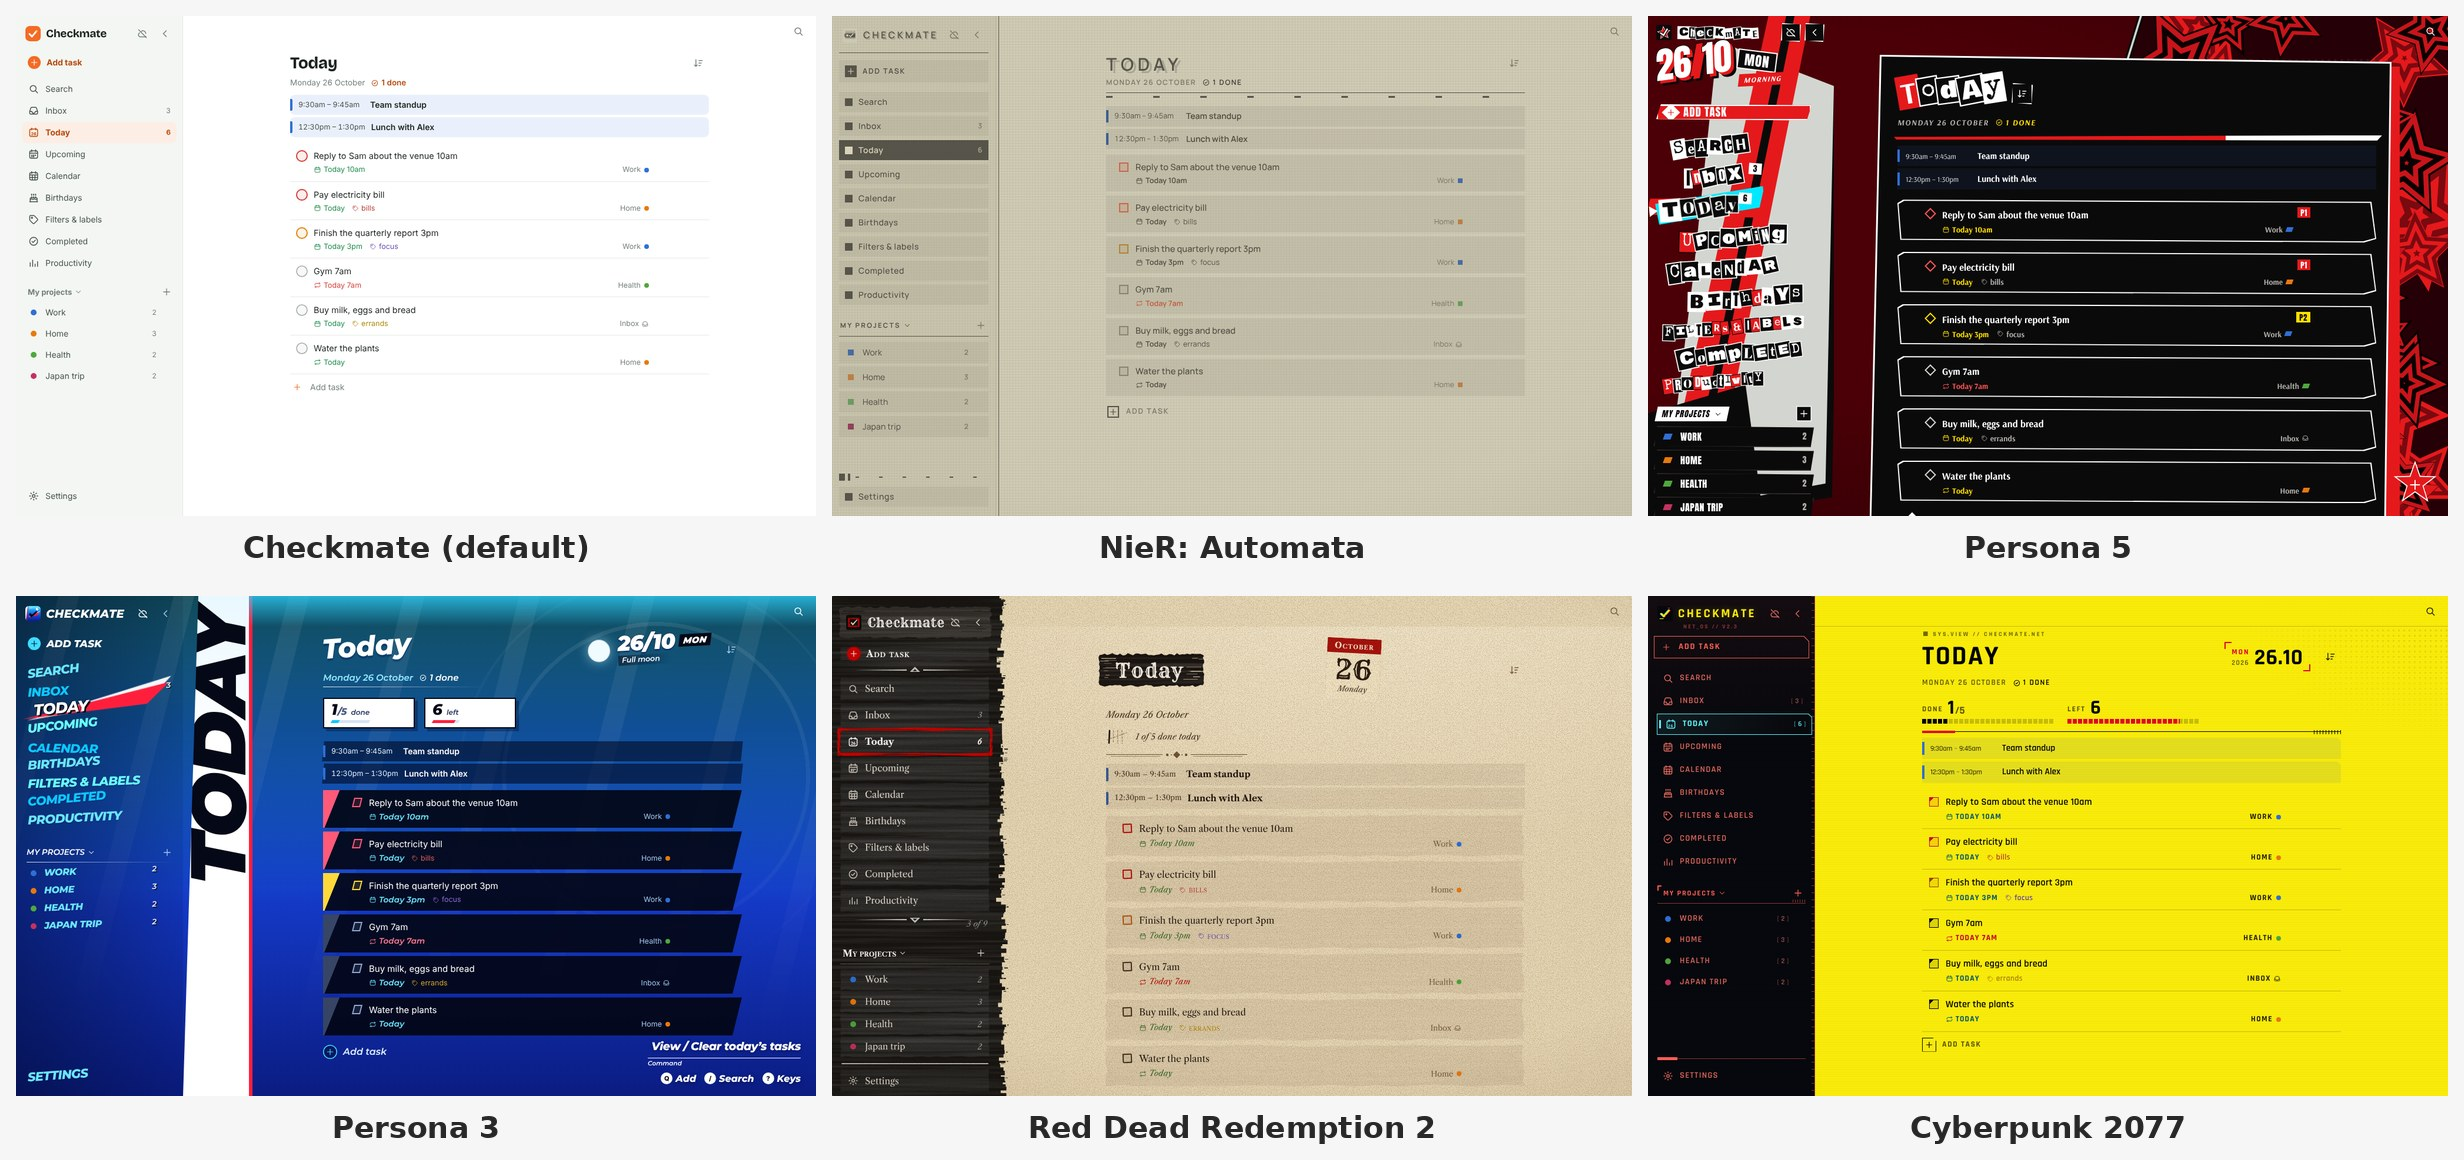
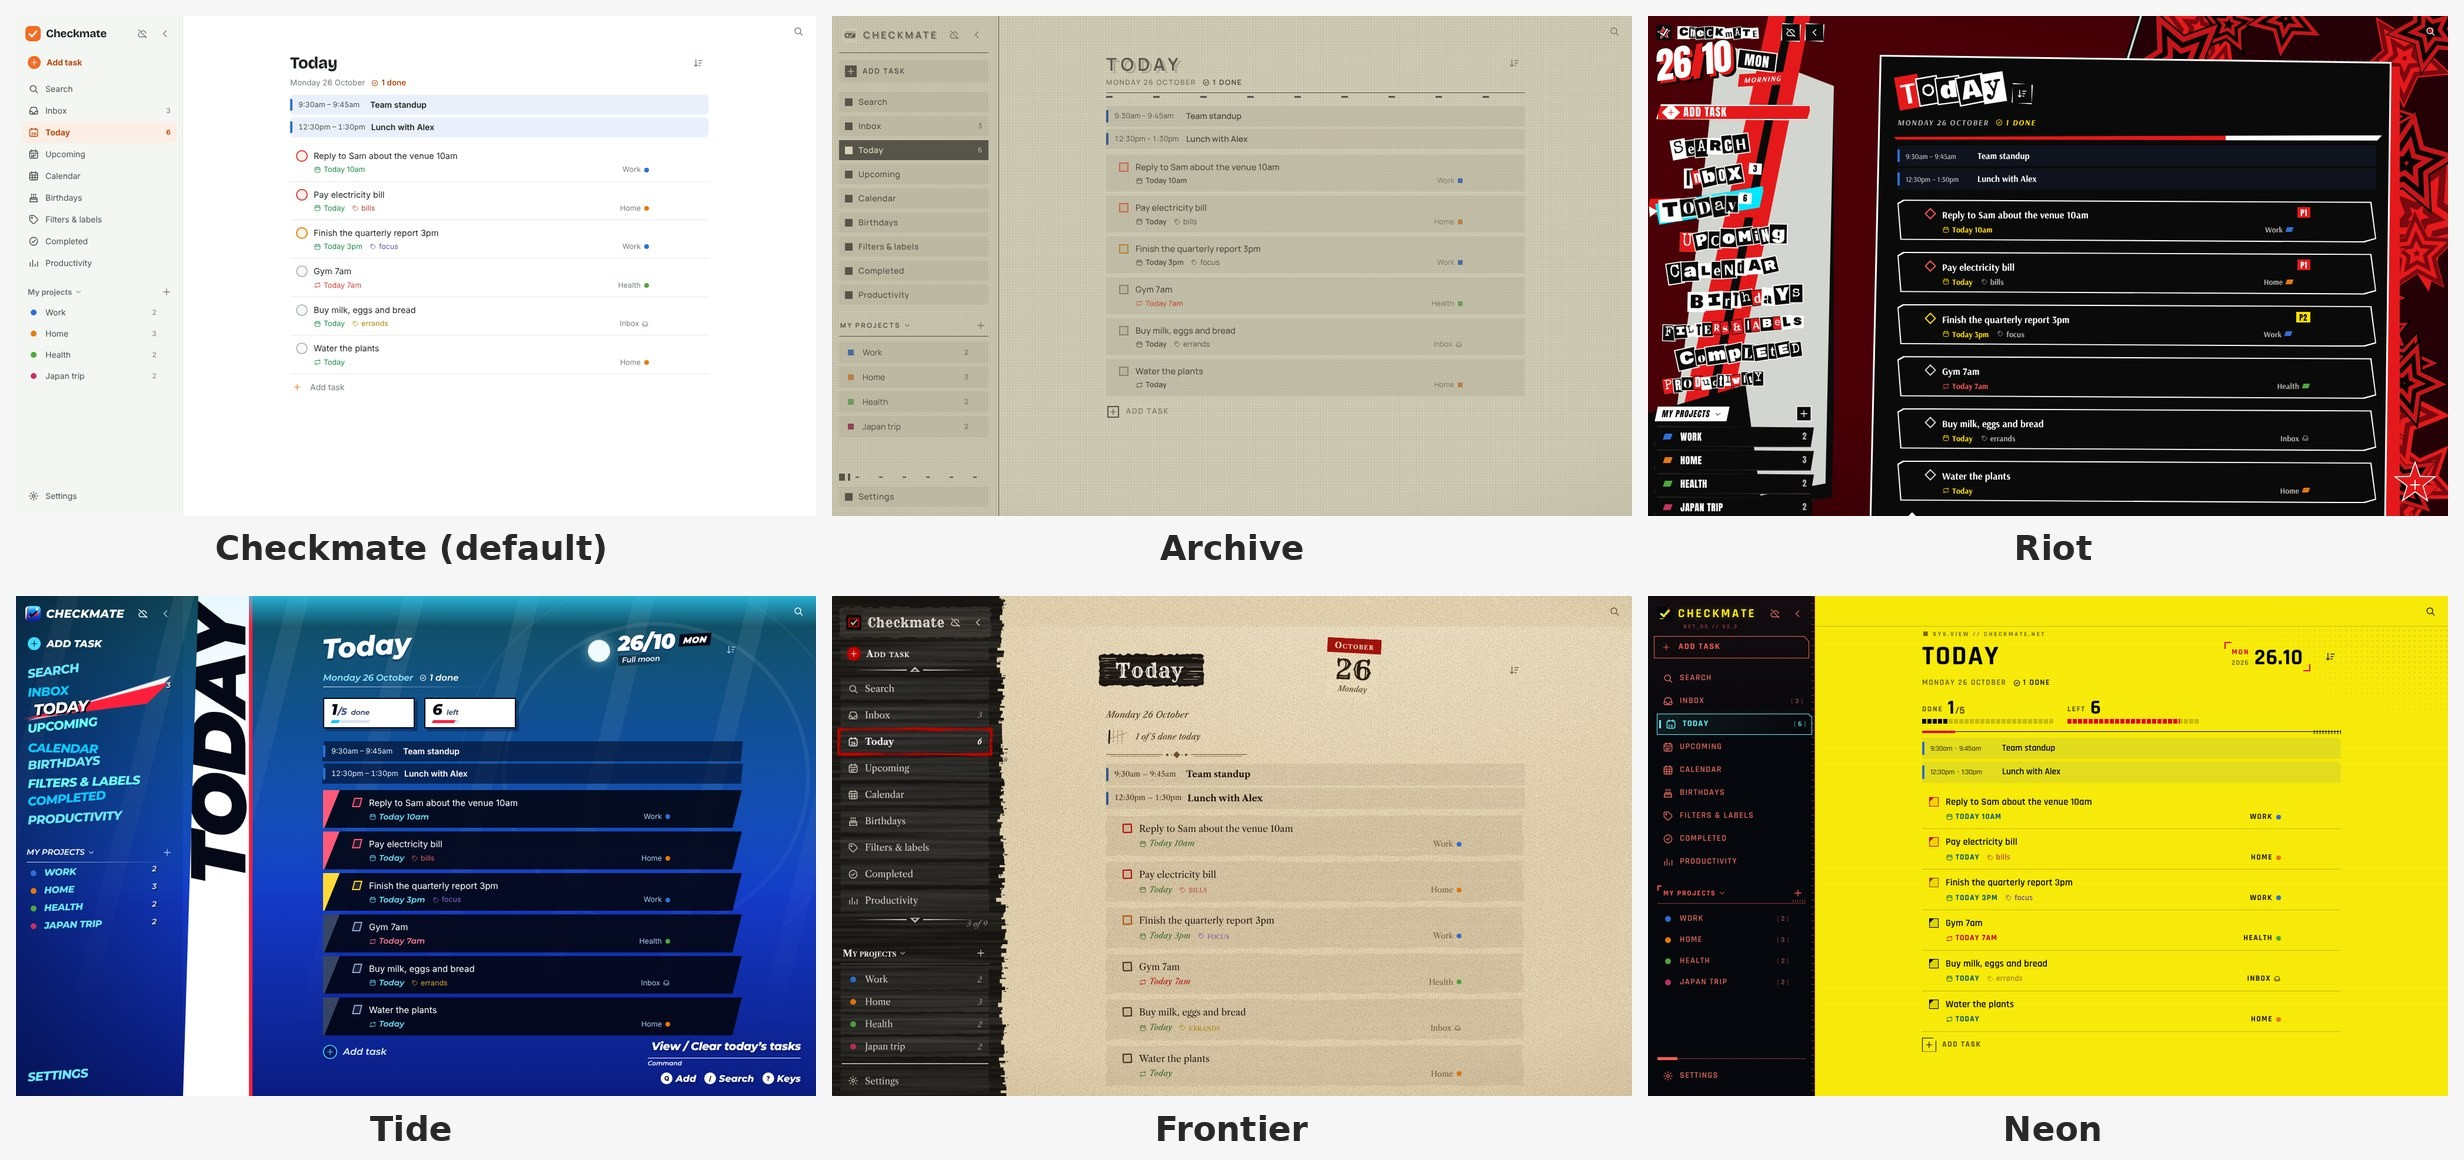
Donate: five Stripe options; README styles picture relabelled
- Settings → Donate lists five Stripe Payment Links: A cup of coffee,
  Lunch money, A month of Claude, A big thank you and Lunch money every
  month (tagged Monthly). DONATION is now a list of { label, url,
  monthly }. English and Chinese.
- docs/images/styles.jpg captions now read Checkmate, Archive, Riot,
  Tide, Frontier and Neon.
- What's new, CHANGELOG.md, GUIDE.md, DEVELOPING.md and the
  settings-more test follow.

Claude-Session: https://claude.ai/code/session_011ebWi9pea7dGHEzDkdWFPC

diff --git a/web/src/settings-more.jsx b/web/src/settings-more.jsx
@@ -124,12 +124,16 @@ export function AboutPanel() {
 
 // ---------------------------------------------------------------- Donate
 
-// Donations go through a Stripe Payment Link (Stripe Dashboard → Payment Links, with
-// "Customers choose what to pay"). Builds for Google Play leave the Donate tab out, as Play
-// doesn't allow paying the developer outside Google Play billing.
-export const DONATION = {
-  stripeUrl: 'https://donate.stripe.com/REPLACE_WITH_YOUR_LINK',
-};
+// Donations go through Stripe Payment Links (Stripe Dashboard → Payment Links), one per
+// option. Builds for Google Play leave the Donate tab out, as Play doesn't allow paying the
+// developer outside Google Play billing.
+export const DONATION = [
+  { label: 'A cup of coffee', url: 'https://buy.stripe.com/dRm3cu44SgGo7M10wnco001' },
+  { label: 'Lunch money', url: 'https://buy.stripe.com/6oU14m1WKfCk0jz4MDco002' },
+  { label: 'A month of Claude', url: 'https://buy.stripe.com/eVqbJ0eJw3TCeap0wnco003' },
+  { label: 'A big thank you', url: 'https://buy.stripe.com/aFa6oG30O75Oeap6ULco004' },
+  { label: 'Lunch money every month', url: 'https://buy.stripe.com/5kQ4gy0SGai02rH4MDco005', monthly: true },
+];
 
 export const showDonate = () => process.env.CHECKMATE_STORE !== 'play';
 
@@ -144,12 +148,16 @@ export function DonatePanel() {
           <Icon name="heart" size={20} />
           <strong>{tr('Donate with Stripe')}</strong>
         </div>
-        <div class="dn-body">
-          <button type="button" class="btn primary" onClick={() => openExternal(DONATION.stripeUrl)}>
-            <Icon name="heart" size={16} /> {tr('Donate')}
-          </button>
-          <span class="field-hint">{tr('Opens Stripe’s secure page in your browser. Choose any amount and pay by card, Apple Pay or Google Pay.')}</span>
+        <div class="dn-options">
+          {DONATION.map((d) => (
+            <button type="button" key={d.url} class="dn-option" onClick={() => openExternal(d.url)}>
+              <span>{tr(d.label)}</span>
+              {d.monthly && <span class="dn-tag">{tr('Monthly')}</span>}
+              <Icon name="chevron" size={16} />
+            </button>
+          ))}
         </div>
+        <span class="field-hint dn-hint">{tr('Opens Stripe’s secure page in your browser, where you can pay by card, Apple Pay or Google Pay. You can cancel a monthly donation at any time from the link in your Stripe receipt.')}</span>
       </div>
       <p class="about">{tr('Thank you for supporting Checkmate!')}</p>
     </div>

diff --git a/web/src/zh-Hant.js b/web/src/zh-Hant.js
@@ -830,7 +830,13 @@ export default {
   'Proudly made in Australia': '澳洲自豪製作',
   'Checkmate is free, with no ads and no subscription. If it makes your days a little easier and you’d like to say thanks, you can chip in towards its development.': 'Checkmate 是免費的，沒有廣告，也不用訂閱。如果它令你的生活輕鬆了一點，而你想表示謝意，歡迎捐款支持它的開發。',
   'Donate with Stripe': '透過 Stripe 捐款',
-  'Opens Stripe’s secure page in your browser. Choose any amount and pay by card, Apple Pay or Google Pay.': '會在瀏覽器中打開 Stripe 的安全付款頁面。金額由你決定，可用信用卡、Apple Pay 或 Google Pay 付款。',
+  'Opens Stripe’s secure page in your browser, where you can pay by card, Apple Pay or Google Pay. You can cancel a monthly donation at any time from the link in your Stripe receipt.': '會在瀏覽器中打開 Stripe 的安全付款頁面，可用信用卡、Apple Pay 或 Google Pay 付款。每月捐款可隨時透過 Stripe 收據中的連結取消。',
+  'A cup of coffee': '一杯咖啡',
+  'Lunch money': '一頓午餐',
+  'A month of Claude': '一個月的 Claude',
+  'A big thank you': '衷心感謝',
+  'Lunch money every month': '每月一頓午餐',
+  Monthly: '每月',
   'Thank you for supporting Checkmate!': '多謝你支持 Checkmate！',
 
   // ---------- 2.2.0: reminders ----------

diff --git a/web/src/changelog.js b/web/src/changelog.js
@@ -4,7 +4,7 @@ export const CHANGELOG = [
     v: '3.0.2',
     date: '2026-10',
     notes: [
-      ['Settings → Donate now takes donations through Stripe: pick any amount and pay by card, Apple Pay or Google Pay.', '「設定 → 捐款支持」改用 Stripe 收取捐款：金額由你決定，可用信用卡、Apple Pay 或 Google Pay 付款。'],
+      ['Settings → Donate now takes donations through Stripe: choose a cup of coffee, lunch money, a month of Claude, a big thank you or lunch money every month, and pay by card, Apple Pay or Google Pay.', '「設定 → 捐款支持」改用 Stripe 收取捐款：可選一杯咖啡、一頓午餐、一個月的 Claude、衷心感謝或每月一頓午餐，並用信用卡、Apple Pay 或 Google Pay 付款。'],
       ['The styles have new names: Archive, Riot, Tide, Frontier and Neon. They look and sound the same, and the one you picked stays picked.', '各風格換上新名稱：Archive、Riot、Tide、Frontier 和 Neon。外觀和音效不變，你選用的風格也保持不變。'],
       ['Settings → Theme no longer shows a note about colours in the styles that bring their own.', '「設定 → 主題」在自帶配色的風格中，不再顯示有關配色的說明。'],
       ['Neon’s dark mode is now called Night.', 'Neon 風格的深色模式改稱「夜色」。'],

diff --git a/web/src/styles.css b/web/src/styles.css
@@ -698,7 +698,13 @@ table.keys td:first-child { width: 46%; }
 .dn-card { padding: 4px 0; }
 .dn-head { display: flex; align-items: center; gap: 10px; padding: 10px 16px 6px; color: var(--accent-strong); }
 .dn-head strong { color: var(--ink); }
-.dn-body { display: flex; flex-direction: column; align-items: flex-start; gap: 8px; padding: 6px 16px 14px; }
+.dn-options { display: flex; flex-direction: column; padding: 2px 0 6px; }
+.dn-option { display: flex; align-items: center; gap: 10px; padding: 11px 16px; border: 0; border-top: 1px solid var(--line); background: none; color: var(--ink); font: inherit; font-size: 15px; font-weight: 600; text-align: left; cursor: pointer; }
+.dn-option:hover, .dn-option:focus-visible { background: var(--hover); color: var(--accent-strong); }
+.dn-option > span:first-child { flex: 1; }
+.dn-option .ic { color: var(--muted); }
+.dn-tag { padding: 2px 8px; border-radius: 999px; background: var(--accent-soft); color: var(--accent-strong); font-size: 12px; font-weight: 600; }
+.dn-hint { display: block; padding: 0 16px 12px; }
 
 /* Settings → Claude */
 .cl-status { align-items: center; }

diff --git a/docs/GUIDE.md b/docs/GUIDE.md
@@ -90,7 +90,7 @@ Free Claude plans can add one custom connector; on Team and Enterprise plans an 
 - Each style has its own app icon and, on a computer, its own mouse cursor (Checkmate keeps the normal system cursor). The icon changes in the app, the browser tab, the Windows title bar and taskbar, Checkmate's shortcuts on the desktop, in Start and pinned to the taskbar (straight away), `Checkmate.exe` itself (when you close Checkmate: a copy with the new icon takes its place, and the old one is removed the next time it starts), and the Android home-screen icon (after you leave the app; some launchers move the home-screen shortcut back to the app drawer when it changes, so you may need to add it again). **Settings → Theme → Change the app icon with the style** turns this off and keeps the original icon outside the app. If Windows still shows the old icon somewhere, it's the icon cache: signing out and in again refreshes it.
 - **Settings → Theme → Theme colour** (in the Checkmate style; the other styles bring their own colours) recolours buttons, highlights and the logo: the default is Checkmate orange (#F46B25); pick one of 12 presets (Pine, the old default, is still there) or any custom colour (colour wheel or a code like `#2f6fd6`). It's adjusted slightly in light and dark mode so text stays readable, and it's saved per device.
 - **Settings → Sidebar** chooses which pages appear at the top of the sidebar (Search, Inbox, Today, Upcoming, Calendar, Birthdays, Filters & labels, Completed, Productivity) and whether task counts are shown next to them and your projects. Hidden pages still open with their keyboard shortcuts. These choices are kept per device.
-- **Settings → About** shows the version and who made Checkmate: Tymon Ng, built with Claude AI, proudly made in Australia. **Settings → Donate** has a button that opens a Stripe page for anyone who'd like to support it (any amount, by card, Apple Pay or Google Pay). The Google Play version leaves this tab out.
+- **Settings → About** shows the version and who made Checkmate: Tymon Ng, built with Claude AI, proudly made in Australia. **Settings → Donate** lists five ways to support it (a cup of coffee, lunch money, a month of Claude, a big thank you, or lunch money every month); each opens a Stripe page to pay by card, Apple Pay or Google Pay. The Google Play version leaves this tab out.
 - **Settings → What’s new** lists the changes in every version.
 - **Settings → Backup** saves or restores a JSON backup of everything on the device (task files aren't in the backup; they stay on the device and in sync).
 - **Settings → Docs & Sheets** turns a Google Doc or Google Sheet into a project of tasks and keeps it up to date (one way, from the doc into Checkmate). Share the file with “Anyone with the link”, paste its link and choose **Link and sync**. In a Sheet each row is a task; headings such as Task, Done, Due, Time, Priority, Labels, Section, Notes and ID (or 任務、完成、日期、優先級、標籤、分類、備註) are recognised. In a Doc each bullet or checklist line is a task, headings become sections, indented bullets become subtasks, and ticked or struck-through lines are completed. Dates, priorities and @labels in the text are read the same way as quick add. Checkmate checks for changes every 15 minutes (or 5, 60, or only when you ask) and whenever the app opens; a row that hasn't changed in the doc leaves your edits in Checkmate alone. The link syncs to your other devices like any project. Sheets work everywhere; Docs work in the Windows and Android apps as they are, while the browser version needs a Google API key with the Drive API turned on (the guide in that tab explains how). You can also start from a project's ⋯ menu: **Sync from a Google Doc or Sheet…**

diff --git a/docs/DEVELOPING.md b/docs/DEVELOPING.md
@@ -2,7 +2,7 @@
 
 **Current version: 3.0.1** (Android versionCode 31). Last updated 27 October 2026.
 
-**3.0.2:** Settings → Donate is a button that opens the Stripe Payment Link in `DONATION.stripeUrl` (`settings-more.jsx`) with `openExternal`; the PayID is gone. `CHECKMATE_STORE=play node build.mjs` builds the Google Play version: `build.mjs` defines `process.env.CHECKMATE_STORE`, and `showDonate()` drops the Donate tab from `TABS`, because Google Play doesn't allow paying the developer outside Play billing. The styles' names shown in the app are their ids, capitalised: Archive, Riot, Tide, Frontier and Neon (the game names are gone from the app, What's new and the docs, so store listings don't use other companies' trademarks). Settings → Theme shows Theme colour only in the Checkmate style, with no note in the others. Neon's dark mode is called Night.
+**3.0.2:** Settings → Donate lists the Stripe Payment Links in `DONATION` (`settings-more.jsx`: label, url, `monthly`), each opened with `openExternal`; the PayID is gone. `CHECKMATE_STORE=play node build.mjs` builds the Google Play version: `build.mjs` defines `process.env.CHECKMATE_STORE`, and `showDonate()` drops the Donate tab from `TABS`, because Google Play doesn't allow paying the developer outside Play billing. The styles' names shown in the app are their ids, capitalised: Archive, Riot, Tide, Frontier and Neon (the game names are gone from the app, What's new and the docs, so store listings don't use other companies' trademarks). Settings → Theme shows Theme colour only in the Checkmate style, with no note in the others. Neon's dark mode is called Night.
 
 **3.0.1:** Settings → General has **Hide completed tasks** (`prefs.hideDoneTasks`) and **Hide completed subtasks** (`prefs.hideDoneSubtasks`), both off by default and kept per device. `ProjectView` works out `showDone` (the project's own ⋯ → Show completed tasks, unless Hide completed tasks is on, which also drops that menu item) and `showDoneSubs` (`showDone` unless Hide completed subtasks is on) for the list and board. The task panel lists finished subtasks unless Hide completed subtasks is on; its "Subtasks 1/3" heading and each row's "2/4" still count every subtask. `TaskRow` takes `canExpand`: `TaskTree` passes it only when a task has subtasks left to show, so a task whose subtasks are all hidden gets no empty arrow. The calendar keeps its own switch (`calShowDone`, Settings → Calendar). Tested by `test/hide-done.cjs`.
 
@@ -156,11 +156,11 @@ checkmate/
 | keys | Shortcuts |
 | whatsnew | Every version's changes, from `changelog.js` |
 | about | Version and credits |
-| donate | The Stripe donation button (left out when built with `CHECKMATE_STORE=play`) |
+| donate | The Stripe donation options (left out when built with `CHECKMATE_STORE=play`) |
 
 Each tab button has `data-tab=<key>`. `ui.openSettings('tab:focus')` deep-links into a tab. Panel code lives in these files:
 
-- `settings-more.jsx`: Sidebar, What’s new, About and Donate. The Stripe Payment Link is `DONATION.stripeUrl`.
+- `settings-more.jsx`: Sidebar, What’s new, About and Donate. The Stripe Payment Links are in `DONATION`.
 - `cal-settings.jsx`, `docs-settings.jsx` and `claude-settings.jsx`: one tab each.
 - `nav-items.jsx`: the sidebar's page list.
 - `theme.js`: accent colours, with presets and custom colours adjusted for light and dark.

diff --git a/CHANGELOG.md b/CHANGELOG.md
@@ -6,14 +6,14 @@ Every version of Checkmate, newest first. The same notes are in the app under **
 
 ## [3.0.2](https://github.com/TymonBitesTheDust/Checkmate/releases/tag/v3.0.2) — October 2026
 
-- Settings → Donate now takes donations through Stripe: pick any amount and pay by card, Apple Pay or Google Pay.
+- Settings → Donate now takes donations through Stripe: choose a cup of coffee, lunch money, a month of Claude, a big thank you or lunch money every month, and pay by card, Apple Pay or Google Pay.
 - The styles have new names: Archive, Riot, Tide, Frontier and Neon. They look and sound the same, and the one you picked stays picked.
 - Settings → Theme no longer shows a note about colours in the styles that bring their own.
 - Neon’s dark mode is now called Night.
 
 <details><summary>繁體中文</summary>
 
-- 「設定 → 捐款支持」改用 Stripe 收取捐款：金額由你決定，可用信用卡、Apple Pay 或 Google Pay 付款。
+- 「設定 → 捐款支持」改用 Stripe 收取捐款：可選一杯咖啡、一頓午餐、一個月的 Claude、衷心感謝或每月一頓午餐，並用信用卡、Apple Pay 或 Google Pay 付款。
 - 各風格換上新名稱：Archive、Riot、Tide、Frontier 和 Neon。外觀和音效不變，你選用的風格也保持不變。
 - 「設定 → 主題」在自帶配色的風格中，不再顯示有關配色的說明。
 - Neon 風格的深色模式改稱「夜色」。
